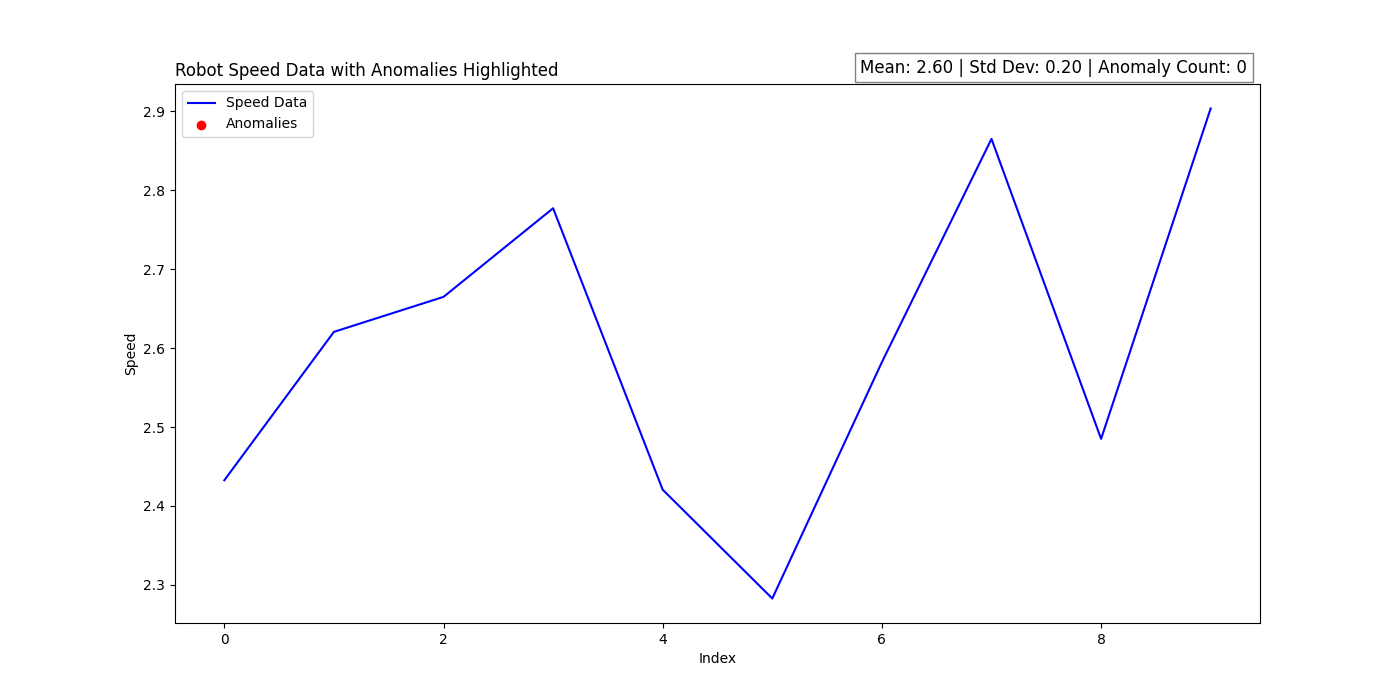
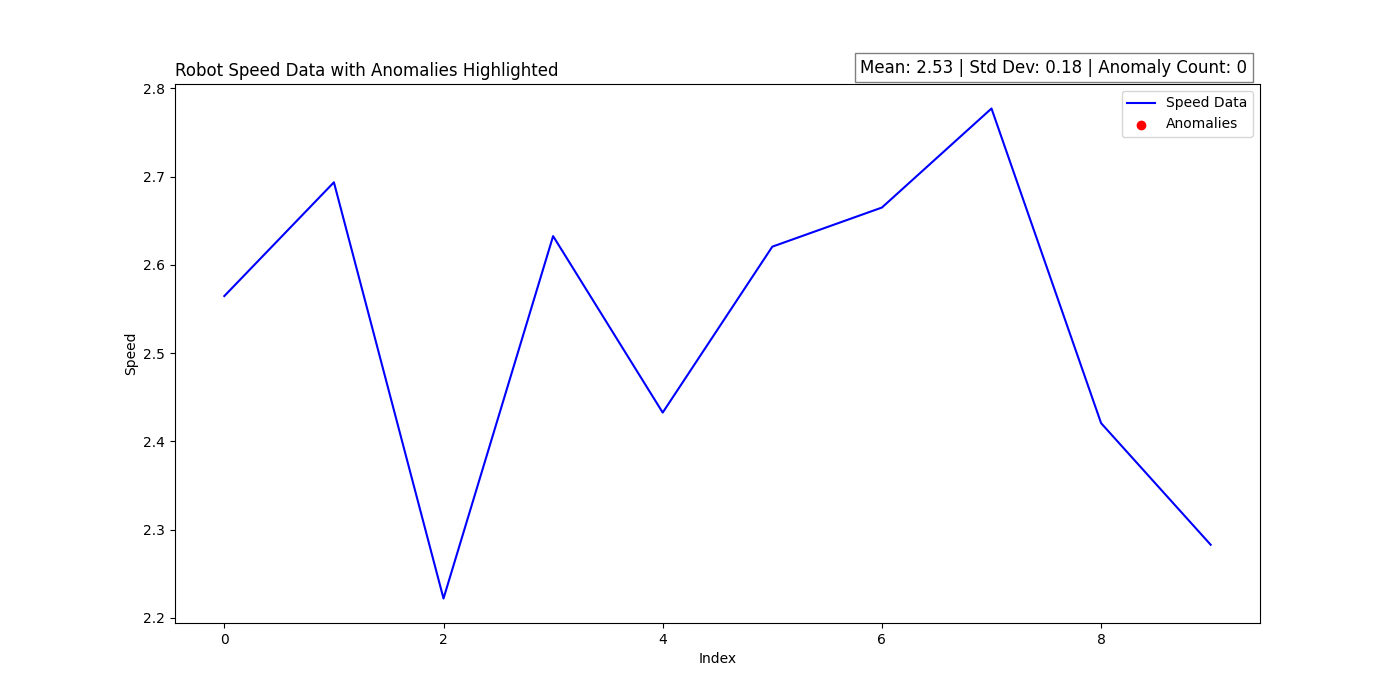
no need for fill_window_frame()

diff --git a/timeSeriesDataset.py b/timeSeriesDataset.py
@@ -18,22 +18,13 @@ def receive_data_as_a_list(url):
     return data
 
 
-def fill_window_frame(queue, input_data, queue_max_len=10):
-    """ the queue has to be full to start the data analysis """
-
-    while len(queue) < queue_max_len:
-        new_data = input_data.pop()
-        queue.append(new_data)
-    return
-
-
 def queue_to_csv(queue, headers):
     csv = headers + "\n" + "\n".join(queue)
     print(csv)
     return StringIO(csv)
 
 
-def stream_data(queue, input_data, increment=2, queue_max_len=10):
+def stream_data(queue, input_data, increment=2):
     """ Simulates a continuous data stream """
     for _ in range(increment):
         new_data = input_data.pop()
@@ -122,7 +113,10 @@ data_list = receive_data_as_a_list(url)
 csv_headers = data_list.pop(0)
 
 streamed_queue = deque(maxlen=window_frame)
-fill_window_frame(streamed_queue, data_list, window_frame)
+
+# in the first run, the increment should be enough to fill the window frame for the analysis
+# so we provide the maxlen of the queue as the increment.
+stream_data(streamed_queue, data_list, window_frame) 
 
 # data_analysis()
 
@@ -135,7 +129,7 @@ print(dataFrame.info())
 plot_data_with_anomalies(anomalyResults)
 
 while len(data_list) > 0:
-    stream_data(streamed_queue, data_list, increment, window_frame) 
+    stream_data(streamed_queue, data_list, increment) 
 
     csv_data = queue_to_csv(streamed_queue, csv_headers)
     dataFrame = pd.read_csv(csv_data)
